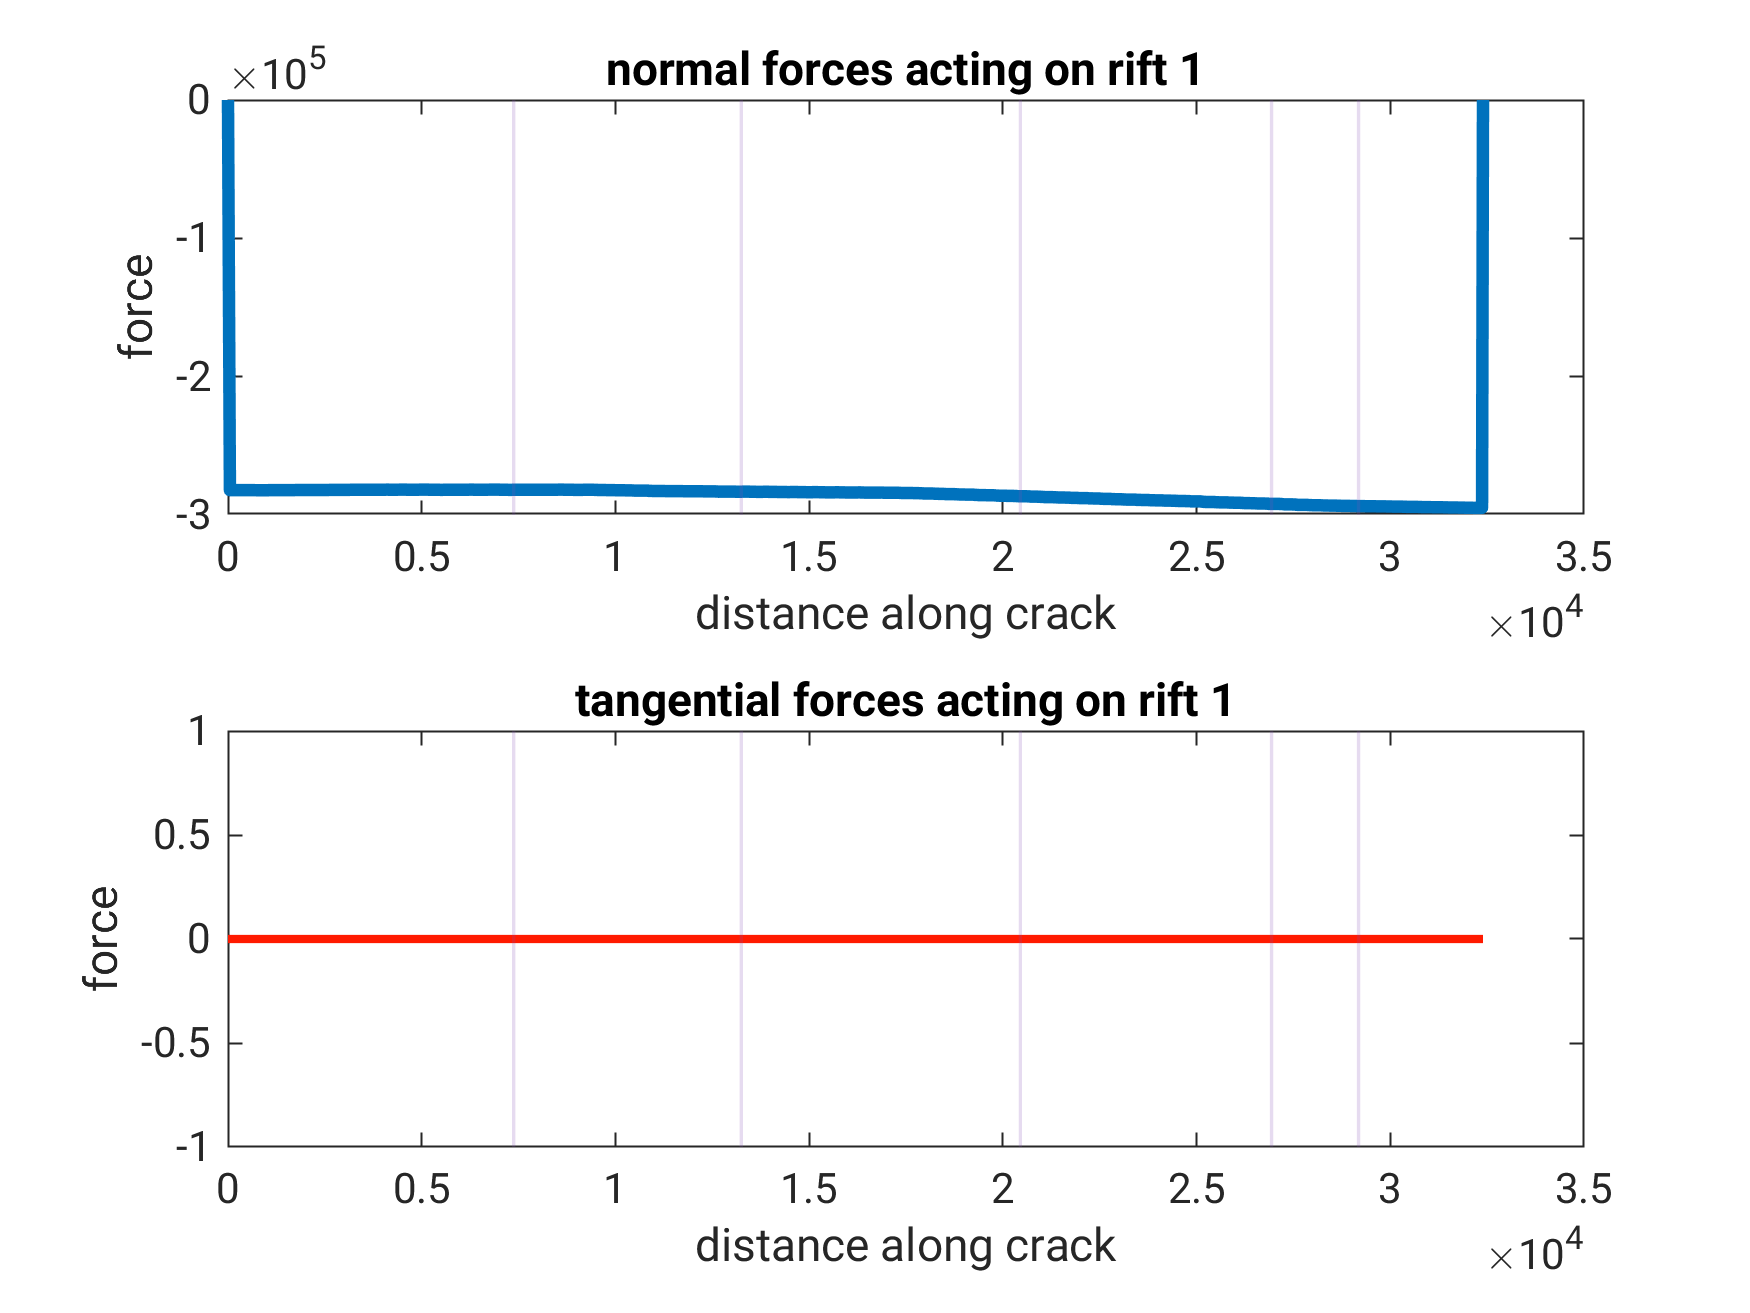
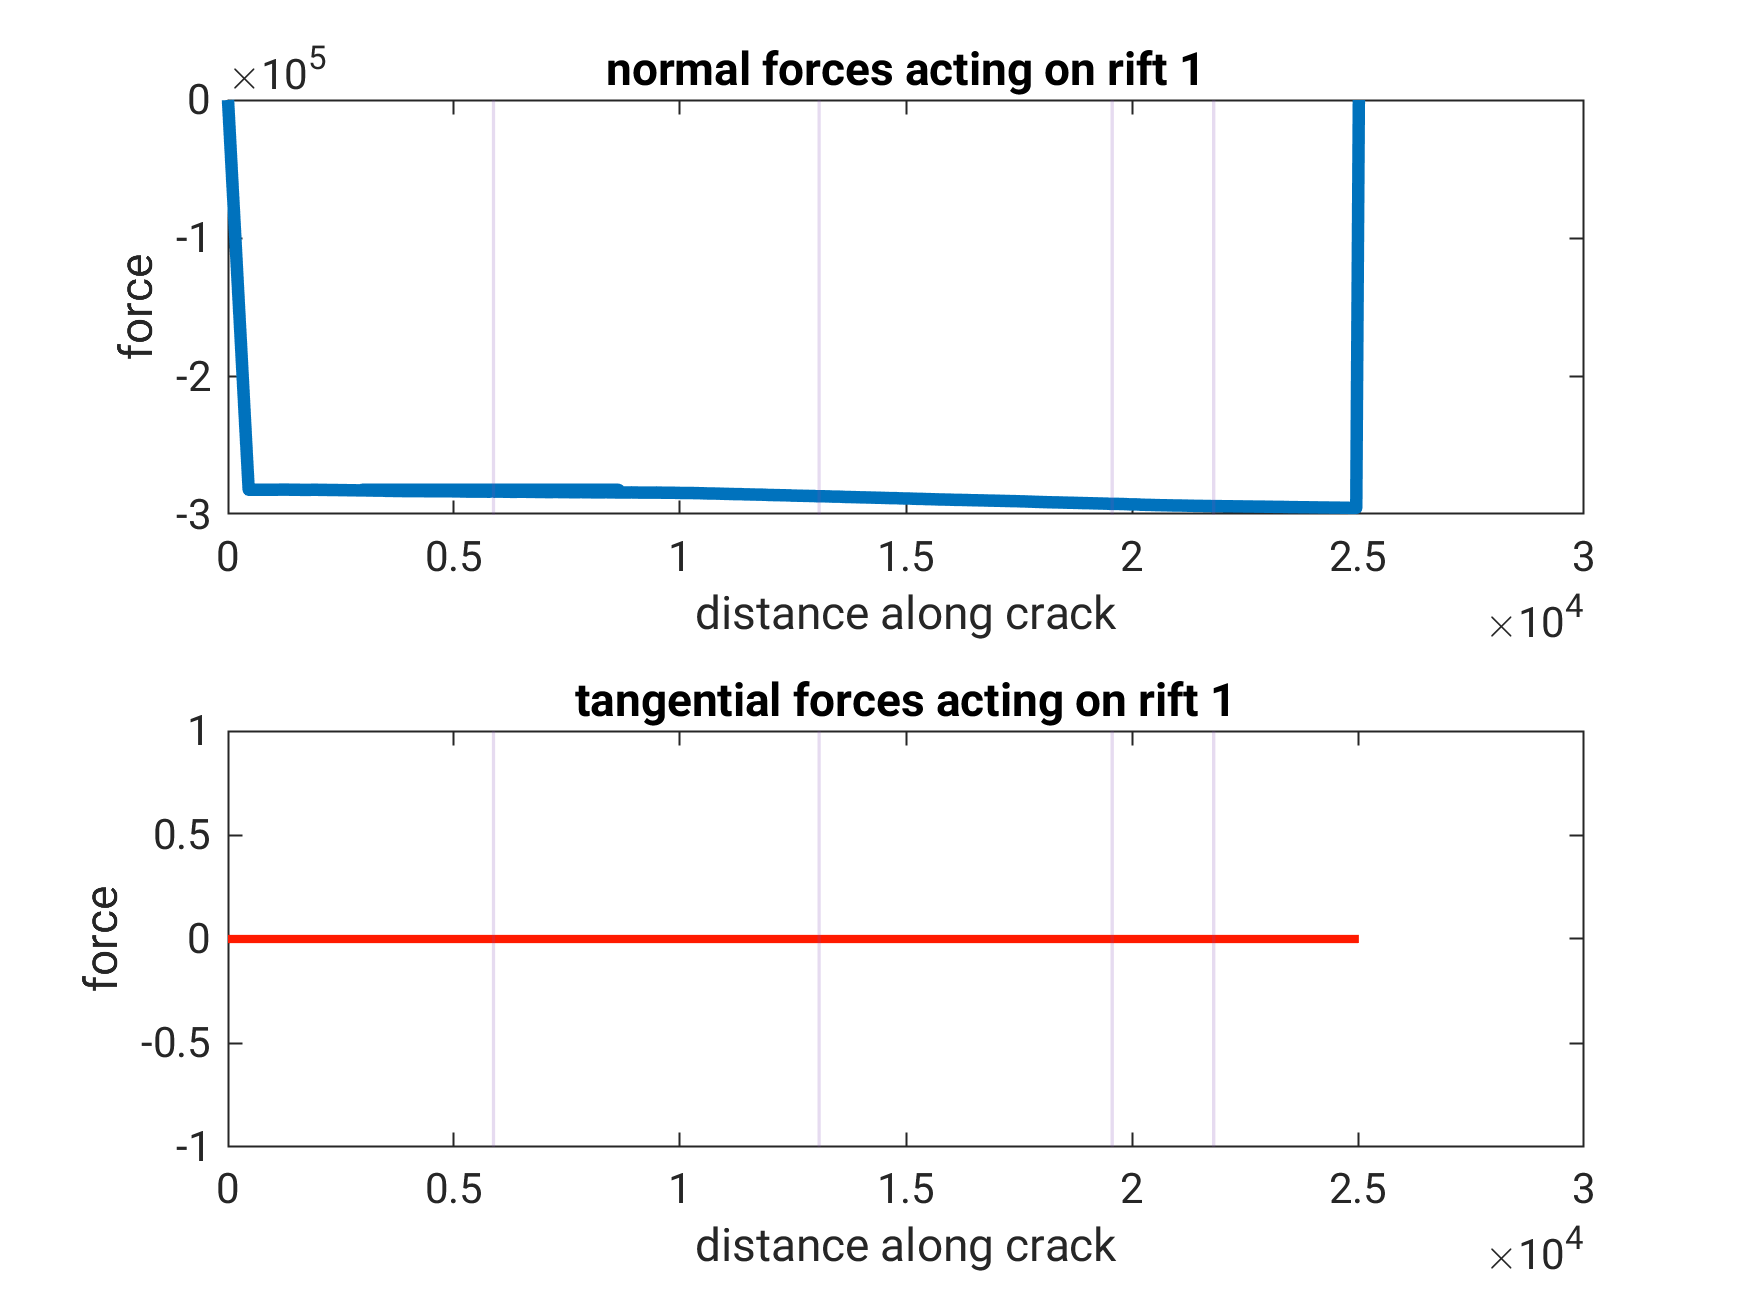
modifications to run_post_process_pres.m

diff --git a/Testcases/FINAL_ISSM2/run_post_process_pres.m b/Testcases/FINAL_ISSM2/run_post_process_pres.m
@@ -94,6 +94,7 @@ if 0
   end
   clf();
   f_plot_wall_forces(u,xCrk,[],typeElem,elemForce,elemGap,elemCrk,splitElem,vertexElem,tipElem,66)
+  clf();
   trisurf(element,node(:,1),node(:,2),Stduy)
   axis equal; view(2); shading interp; colorbar
   cm = flipud(cbrewer2('RdBu', 256));
@@ -125,6 +126,9 @@ if 1
   Stduy = fu(2:2:2*numnode) ;
   %[crackLips,flagP] = f_cracklips( u, xCrk, enrDomain, typeElem, elemCrk, xTip,xVertex,enrichNode,crackNode,pos,splitElem, vertexElem, tipElem);
 
+  % the crack is saved after a propagation step, so we need to modify the crack to plot 
+  xCrk(1).coor(1,:)=[];
+
   f = figure();
   hold on
   [crackLips,flagP,elemGap] = f_find_cracklips( u, xCrk, 1, [], typeElem, elemCrk, xTip,xVertex,enrichNode,crackNode,pos,splitElem, vertexElem, tipElem);
@@ -142,6 +146,7 @@ if 1
   end
   clf();
   f_plot_wall_forces(u,xCrk,[],typeElem,elemForce,elemGap,elemCrk,splitElem,vertexElem,tipElem,1)
+  clf();
   trisurf(element,node(:,1),node(:,2),Stduy)
   axis equal; view(2); shading interp; colorbar
   cm = flipud(cbrewer2('RdBu', 256));
